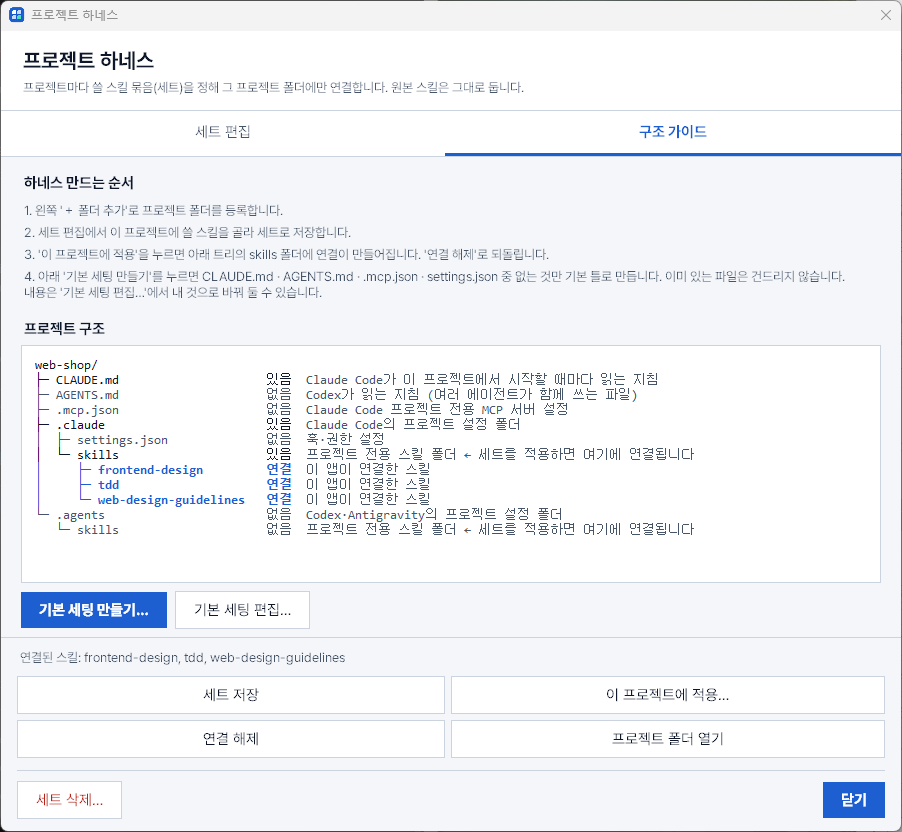
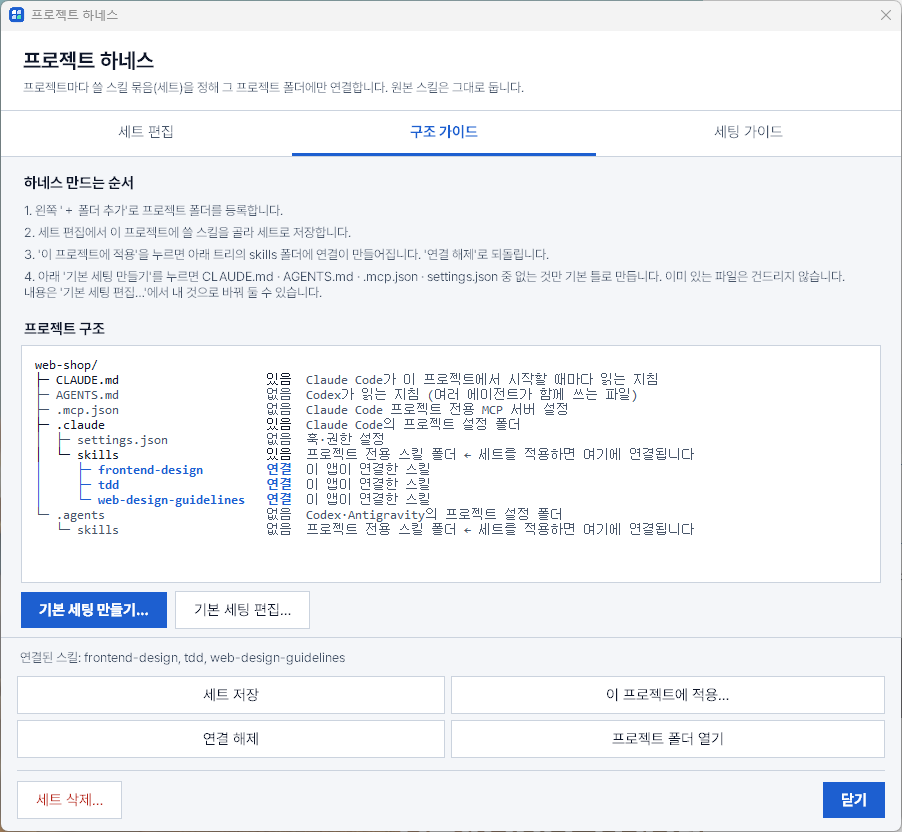
Feat: 프로젝트 하네스에 세팅 가이드 탭 추가
- 구성 요소·원칙·예시 구조·예시 파일 3개(복사 버튼)·공식 문서 출처를 보여 줌
- 글은 data/harness_guide.json으로 분리하고 exe·dmg 번들 검사에 포함

diff --git a/src/skilldesk/skill_viewer.py b/src/skilldesk/skill_viewer.py
@@ -1995,12 +1995,13 @@ class HarnessWindow:
         app._button(ends, "닫기", self.close, primary=True).pack(side="right")
         tk.Frame(win, height=1, bg=c["line"]).pack(side="bottom", fill="x")
 
-        bar, self._restyle = app._tab_bar(win, ["세트 편집", "구조 가이드"], self.show_page)
+        bar, self._restyle = app._tab_bar(win, ["세트 편집", "구조 가이드", "세팅 가이드"], self.show_page)
         bar.pack(fill="x")
         tk.Frame(win, height=1, bg=c["line"]).pack(fill="x")
         body = self.sets_page = tk.Frame(win, bg=c["bg"])
         body.pack(fill="both", expand=True)
         self.guide_page = tk.Frame(win, bg=c["bg"])
+        self.howto_page = tk.Frame(win, bg=c["bg"])
         left = tk.Frame(body, bg=c["rail"], width=app.px(250))
         left.pack(side="left", fill="y")
         left.pack_propagate(False)
@@ -2135,8 +2136,12 @@ class HarnessWindow:
         self._restyle(name)
         self.sets_page.pack_forget()
         self.guide_page.pack_forget()
+        self.howto_page.pack_forget()
         if name == "세트 편집":
             self.sets_page.pack(fill="both", expand=True)
+        elif name == "세팅 가이드":
+            self.howto_page.pack(fill="both", expand=True)
+            self.draw_howto()
         else:
             self.guide_page.pack(fill="both", expand=True)
             self.draw_guide()
@@ -2187,6 +2192,68 @@ class HarnessWindow:
             text.insert("end", f"{mark}  ", (state,) if state else ())
             text.insert("end", r["note"] + "\n", ("note",))
         text.configure(state="disabled")
+
+    def draw_howto(self) -> None:
+        """Read-only how-to (text from data/harness_guide.json): components, principles, example tree, copyable example files."""
+        app, c = self.app, self.app.c
+        for w in self.howto_page.winfo_children():
+            w.destroy()
+        g = hn.load_guide()
+        size = round(10 * plat.FONT_SCALE)
+        mono = (plat.MONO_FONT, size, "normal", "roman")
+        body = (app.f(10)[0], size, "normal", "roman")
+        bold = (body[0], size, "bold", "roman")
+        text = tk.Text(self.howto_page, font=body, bg=c["bg"], fg=c["text"], relief="flat", highlightthickness=0,
+                       wrap="word", cursor="arrow", padx=20, pady=12, spacing3=3)
+        bar = tk.Scrollbar(self.howto_page, command=text.yview)
+        text.configure(yscrollcommand=bar.set)
+        bar.pack(side="right", fill="y")
+        text.pack(side="left", fill="both", expand=True)
+        text.tag_config("h", font=(body[0], size + 2, "bold", "roman"), spacing1=14, spacing3=6)
+        text.tag_config("name", font=bold, spacing1=6, lmargin1=8, lmargin2=8)
+        text.tag_config("path", font=mono, foreground=c["accent"], lmargin1=24, lmargin2=24)
+        text.tag_config("note", foreground=c["muted"], lmargin1=24, lmargin2=24)
+        text.tag_config("item", lmargin1=8, lmargin2=24)
+        text.tag_config("code", font=mono, background=c["surface"], lmargin1=10, lmargin2=10, spacing3=0)
+        text.tag_config("link", foreground=c["accent"], underline=True, lmargin1=8)
+
+        def head(t: str) -> None:
+            text.insert("end", t + "\n", ("h",))
+
+        head("구성 요소 — 무엇을 어디에 두나")
+        for comp in g["components"]:
+            text.insert("end", comp["name"] + "\n", ("name",))
+            for where in comp["where"]:
+                text.insert("end", where + "\n", ("path",))
+            text.insert("end", comp["note"] + "\n", ("note",))
+        text.insert("end", g["caveat"] + "\n", ("note",))
+        head("원칙")
+        for line in g["principles"]:
+            text.insert("end", "• " + line + "\n", ("item",))
+        head("하지 말 것")
+        for line in g["avoid"]:
+            text.insert("end", "• " + line + "\n", ("item",))
+        head("예시 구조")
+        text.insert("end", g["tree"] + "\n", ("code",))
+        head("예시 파일")
+        for ex in g["examples"]:
+            text.insert("end", ex["title"] + "  ", ("name",))
+            btn = app._button(text, "복사", lambda ex=ex: self.copy_example(ex))
+            text.window_create("end", window=btn)
+            text.insert("end", "\n" + ex["body"], ("code",))
+        head("출처")
+        for n, src in enumerate(g["sources"]):
+            tag = f"src{n}"
+            text.insert("end", f"{src['title']}  {src['url']}\n", ("link", tag))
+            text.tag_bind(tag, "<Button-1>", lambda e, u=src["url"]: webbrowser.open(u))
+            text.tag_bind(tag, "<Enter>", lambda e: text.config(cursor="hand2"))
+            text.tag_bind(tag, "<Leave>", lambda e: text.config(cursor="arrow"))
+        text.configure(state="disabled")
+
+    def copy_example(self, ex: dict) -> None:
+        self.app.root.clipboard_clear()
+        self.app.root.clipboard_append(ex["body"])
+        self.say(f"복사됨: {ex['title']}")
 
     # ---- choices --------------------------------------------------------------------------------
     def select_project(self, path: str) -> None:

diff --git a/tests/test_viewer.py b/tests/test_viewer.py
@@ -1594,6 +1594,15 @@ class PanelTest(unittest.TestCase):
         self.assertTrue(mgr.is_link(link))
         self.assertIn("새로 연결 1개", w.status.cget("text"))
         self.assertNotIn("harness-demo", exclude.read_text(encoding="utf-8") if exclude.is_file() else "")  # opt-in only
+        w.show_page("세팅 가이드")  # how-to text; each example file has a copy button
+        w.app.root.update()
+        howto = next(x for x in walk(w.howto_page) if isinstance(x, tk.Text))
+        self.assertIn("구성 요소", howto.get("1.0", "end"))
+        example = hn.load_guide()["examples"][0]
+        w.copy_example(example)
+        self.assertEqual(app.root.clipboard_get(), example["body"])
+        copies = [x for x in walk(howto) if x.winfo_class() == "Label" and x.cget("text") == "복사"]
+        self.assertEqual(len(copies), 3)
         w.show_page("구조 가이드")  # read-only tree of the project: our link marked, the user's own file only "있음"
         (proj / "CLAUDE.md").write_text("x", encoding="utf-8")
         w.draw_guide()

diff --git a/tests/test_harness.py b/tests/test_harness.py
@@ -274,6 +274,14 @@ class ExampleSetsTest(unittest.TestCase):
         used = {s for v in h.EXAMPLE_SETS.values() for s in v}
         self.assertEqual(used - public, set())
 
+    def test_guide_data_has_every_part(self):
+        g = h.load_guide()
+        self.assertGreaterEqual(len(g["components"]), 5)
+        self.assertTrue(g["principles"] and g["avoid"] and g["tree"] and g["caveat"])
+        self.assertEqual(len(g["examples"]), 3)
+        self.assertEqual(len(g["sources"]), 4)
+        self.assertTrue(all(s["url"].startswith("https://") for s in g["sources"]))
+
 
 if __name__ == "__main__":
     unittest.main()

diff --git a/src/skilldesk/skill_harness.py b/src/skilldesk/skill_harness.py
@@ -106,6 +106,14 @@ def save_set(name: str, skills: list[str]) -> None:
     save(data)
 
 
+GUIDE = Path(__file__).parent / "data" / "harness_guide.json"
+
+
+def load_guide() -> dict:
+    """The bundled how-to text for the 세팅 가이드 tab (components, principles, example files, sources)."""
+    return json.loads(GUIDE.read_text(encoding="utf-8"))
+
+
 def ensure_examples() -> None:
     """First use only: add EXAMPLE_SETS when there is no set yet. The flag stays, so deleted examples never come back."""
     data = load()

diff --git a/docs/make_screenshots.py b/docs/make_screenshots.py
@@ -259,6 +259,8 @@ def main() -> None:
             (t / "work/web-shop/CLAUDE.md").write_text("# web-shop\n", encoding="utf-8")
             app.dialog.show_page("구조 가이드")
             shot(app.dialog.win, "harness-guide")
+            app.dialog.show_page("세팅 가이드")
+            shot(app.dialog.win, "harness-howto")
             hn.release(web)  # unlink before the temp folder is removed
             app.dialog.close()
 

diff --git a/docs/DEVELOPMENT.md b/docs/DEVELOPMENT.md
@@ -100,7 +100,7 @@ skill-manage-viewer/
 │  ├─ skill_viewer.py       화면: 창, 탭, 카테고리 목록, 스킬 줄, 메뉴, 추가 대화상자, 트레이, 색·글꼴. `main()`이 시작점
 │  ├─ skill_manager.py      일: 링크 해석, git 받기, 설치·업데이트·삭제·생성, SKILL.md 읽기·저장(`read_skill_md`/`save_skill_md`), 메모·설정 저장 (Tk 없음)
 │  ├─ skill_agent.py        에이전트(Claude Code)에게 스킬을 만들게 함: 임시 폴더에서 실행·시간 제한·취소, 결과 검사(Draft), 미리보기 뒤 설치 (Tk 없음)
-│  ├─ skill_harness.py      프로젝트 하네스: 세트·프로젝트 저장(`harness.json`), 적용·해제(링크 기록으로 이 앱이 만든 것만 지움), 구조 가이드 트리 (Tk 없음). 화면은 `skill_viewer.py`의 `HarnessWindow`
+│  ├─ skill_harness.py      프로젝트 하네스: 세트·프로젝트 저장(`harness.json`), 적용·해제(링크 기록으로 이 앱이 만든 것만 지움), 구조 가이드 트리, 세팅 가이드 글 읽기 `load_guide`(`data/harness_guide.json`) (Tk 없음). 화면은 `skill_viewer.py`의 `HarnessWindow`
 │  ├─ skill_usage.py        Claude Code 대화 기록(.jsonl)에서 달별 스킬 호출 횟수 집계, 최근 2개월 안 쓴 스킬(정리 후보) 계산 (Tk 없음, 파일별 캐시)
 │  ├─ platform_support.py   OS마다 다른 것: 폴더 링크, 파일 열기, 화면 영역, 글꼴 로드, 중복 실행 방지
 │  ├─ install.py            시작 메뉴 바로 가기 / macOS .app 만들기·지우기

diff --git a/AGENTS.md b/AGENTS.md
@@ -38,7 +38,7 @@
 | 앱 자신의 업데이트 (git 클론: 자동 / exe·dmg: 설치 파일을 받아 해시 확인 뒤 교체 / ZIP: 새 버전 알림만) | `skill_update.py` / `self_update.py` / `update_check.py` |
 | Windows 설치 파일(exe) 빌드, 자동 업데이트 시험 | `tools/build_exe.py`, `tools/skilldesk.iss`, `tools/update_e2e.ps1`, `release.yml`의 `exe` 작업 |
 | macOS 앱(.app을 담은 dmg) 빌드, `SHA256SUMS.txt`와 릴리스 공개 | `tools/build_mac.py`, `tools/update_e2e.sh`, `release.yml`의 `mac`·`publish` 작업 |
-| 프로젝트별 스킬 세트(저장·적용·해제·구조 트리), 그 창 | `skill_harness.py`, `skill_viewer.py` – `HarnessWindow` |
+| 프로젝트별 스킬 세트(저장·적용·해제·구조 트리), 그 창 | `skill_harness.py`, `skill_viewer.py` – `HarnessWindow` (세팅 가이드 글: `data/harness_guide.json`) |
 | Windows/macOS 차이(링크, 파일 열기, 글꼴, 화면 영역) | `platform_support.py` |
 | 카테고리 정의, 스킬별 한국어 설명 | `data/skill_categories.json`, `data/skill_notes.json` |
 | 추천 탭의 목록(읽기 `load_recommended`, 새로 만들기 `tools/update_recommend.py`) | `skill_manager.py`, `data/skill_recommend.json` |
